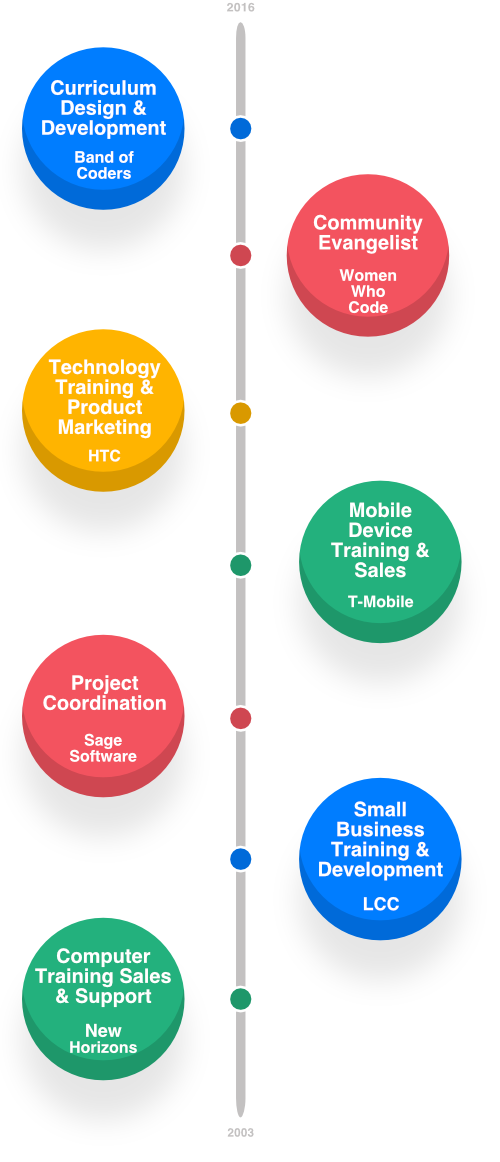
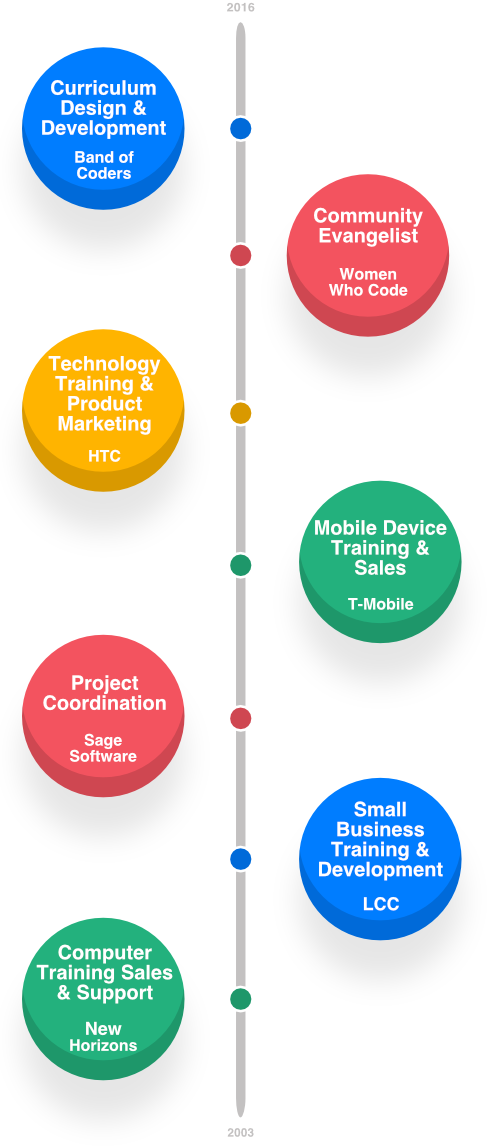
Style updates

diff --git a/css/style.css b/css/style.css
@@ -986,7 +986,7 @@ select {
   display: block;
   margin-right: 2.35765%;
   width: 6.17215%;
-  margin-left: 102.35765%;
+  margin-left: 93.82785%;
   margin-top: -2em;
   margin-bottom: -11em; }
   .CornerLogo:last-child {
@@ -1007,15 +1007,15 @@ select {
   text-align: center; }
 
 .RSec2 {
-  padding: 7em 1em;
+  padding: 4em 1em;
   text-align: center; }
 
 .RSec3 {
-  padding: 7em 1em;
+  padding: 4em 1em;
   text-align: center; }
 
 .RSec4 {
-  padding: 7em 1em;
+  padding: 4em 1em;
   text-align: center; }
 
 .RSec5 {

diff --git a/_sass/_style.scss b/_sass/_style.scss
@@ -303,7 +303,7 @@ select {
 
 .CornerLogo {
 	@include span-columns(1);
-	@include shift(12);
+	@include shift(11);
 	margin-top: -2em;
 	margin-bottom: -11em;
 }
@@ -320,17 +320,17 @@ select {
 }
 
 .RSec2 {
-	@include pad(7em 1em);
+	@include pad(4em 1em);
 	text-align: center;
 }
 
 .RSec3 {
-	@include pad(7em 1em);
+	@include pad(4em 1em);
 	text-align: center;
 }
 
 .RSec4 {
-	@include pad(7em 1em);
+	@include pad(4em 1em);
 	text-align: center;
 }
  
